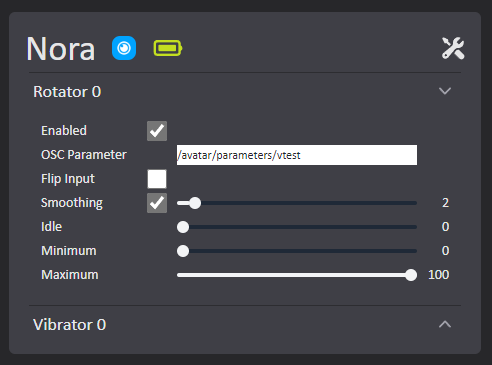
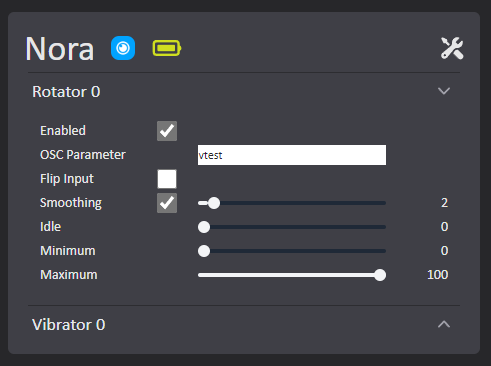
- Add new docs photo for new parameter input

diff --git a/README.md b/README.md
@@ -51,7 +51,7 @@ You can do whatever you want you don't NEED to use contacts scripts. VibeCheck j
 2. If VibeCheck is your only OSC app that receives data from VRChat, skip step 3.
 3. If you are using multiple OSC apps that **Receive** data from VRChat consider using my OSC router app: [VOR](https://github.com/SutekhVRC/VOR/releases/latest). Then go to the 'Settings' tab and setup VibeCheck's OSC bind host/port to listen on.
 4. Setup connection via [Bluetooth](./docs/Bluetooth.md) or [Lovense Connect](./docs/LovenseConnect.md), and turn on your toy(s).
-5. Once your toy(s) are connected, configure them to use the parameters you want them to listen for (Floats only). You have full control of the parameter address to listen for. So you will have to input the whole parameter address. You will almost always only need to use the avatar parameters address. So inputting your parameter will follow this format: /avatar/parameters/YOUR_CONTACTS_RECEIVER_PARAMETER_HERE. So if I put the parameter name 'vtest' into my contacts receiver on my avatar I would input '/avatar/parameters/vtest' for my parameter in the toy's configuration.
+5. Once your toy(s) are connected, configure them to use the parameters you want them to listen for (Floats only).
 
 ![Toy Config](./docs/Toy_config.png)
 
